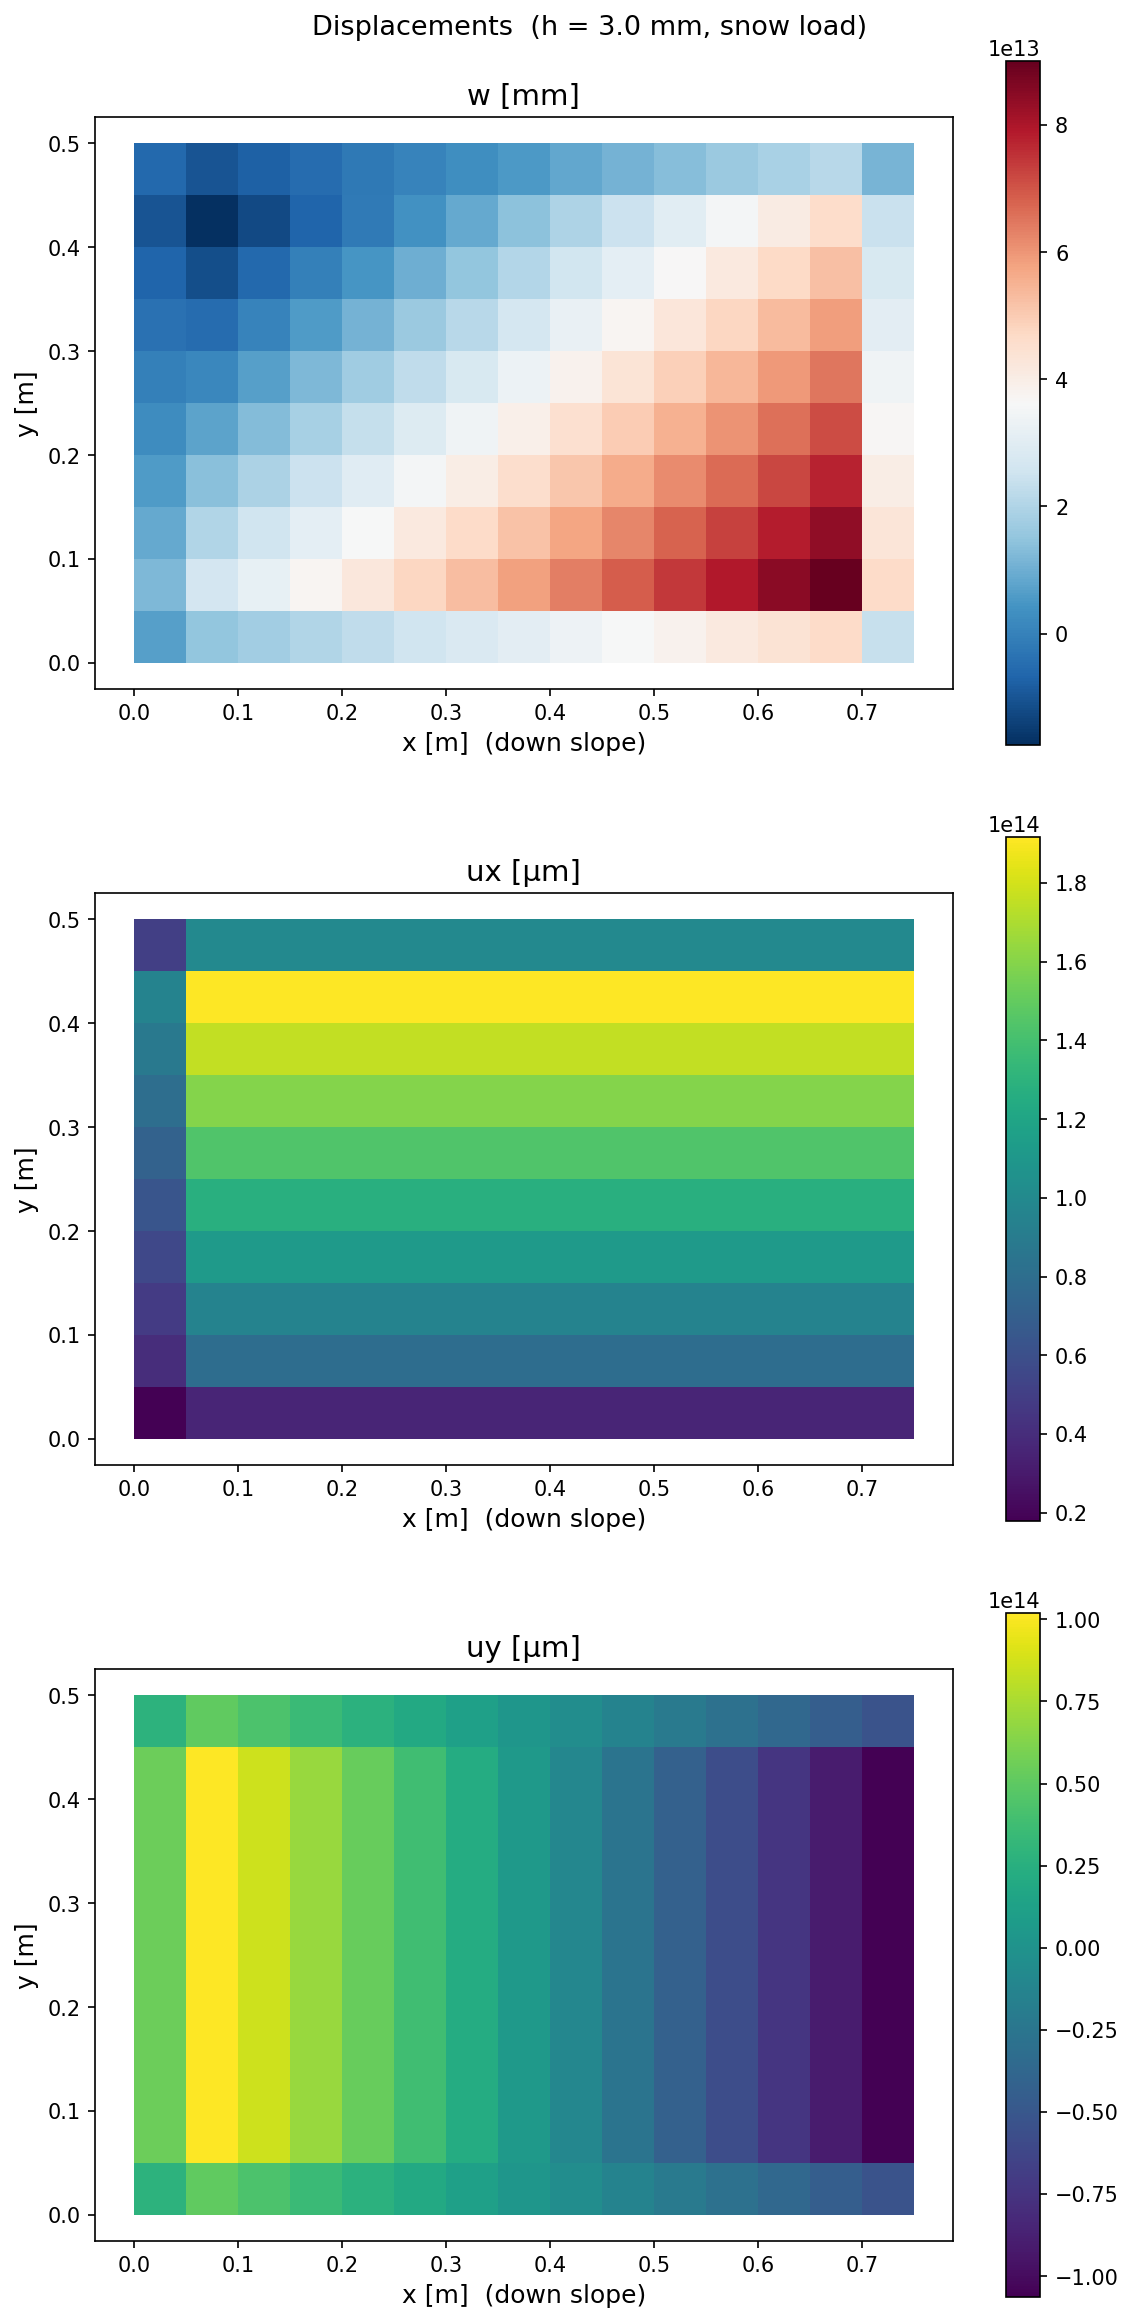
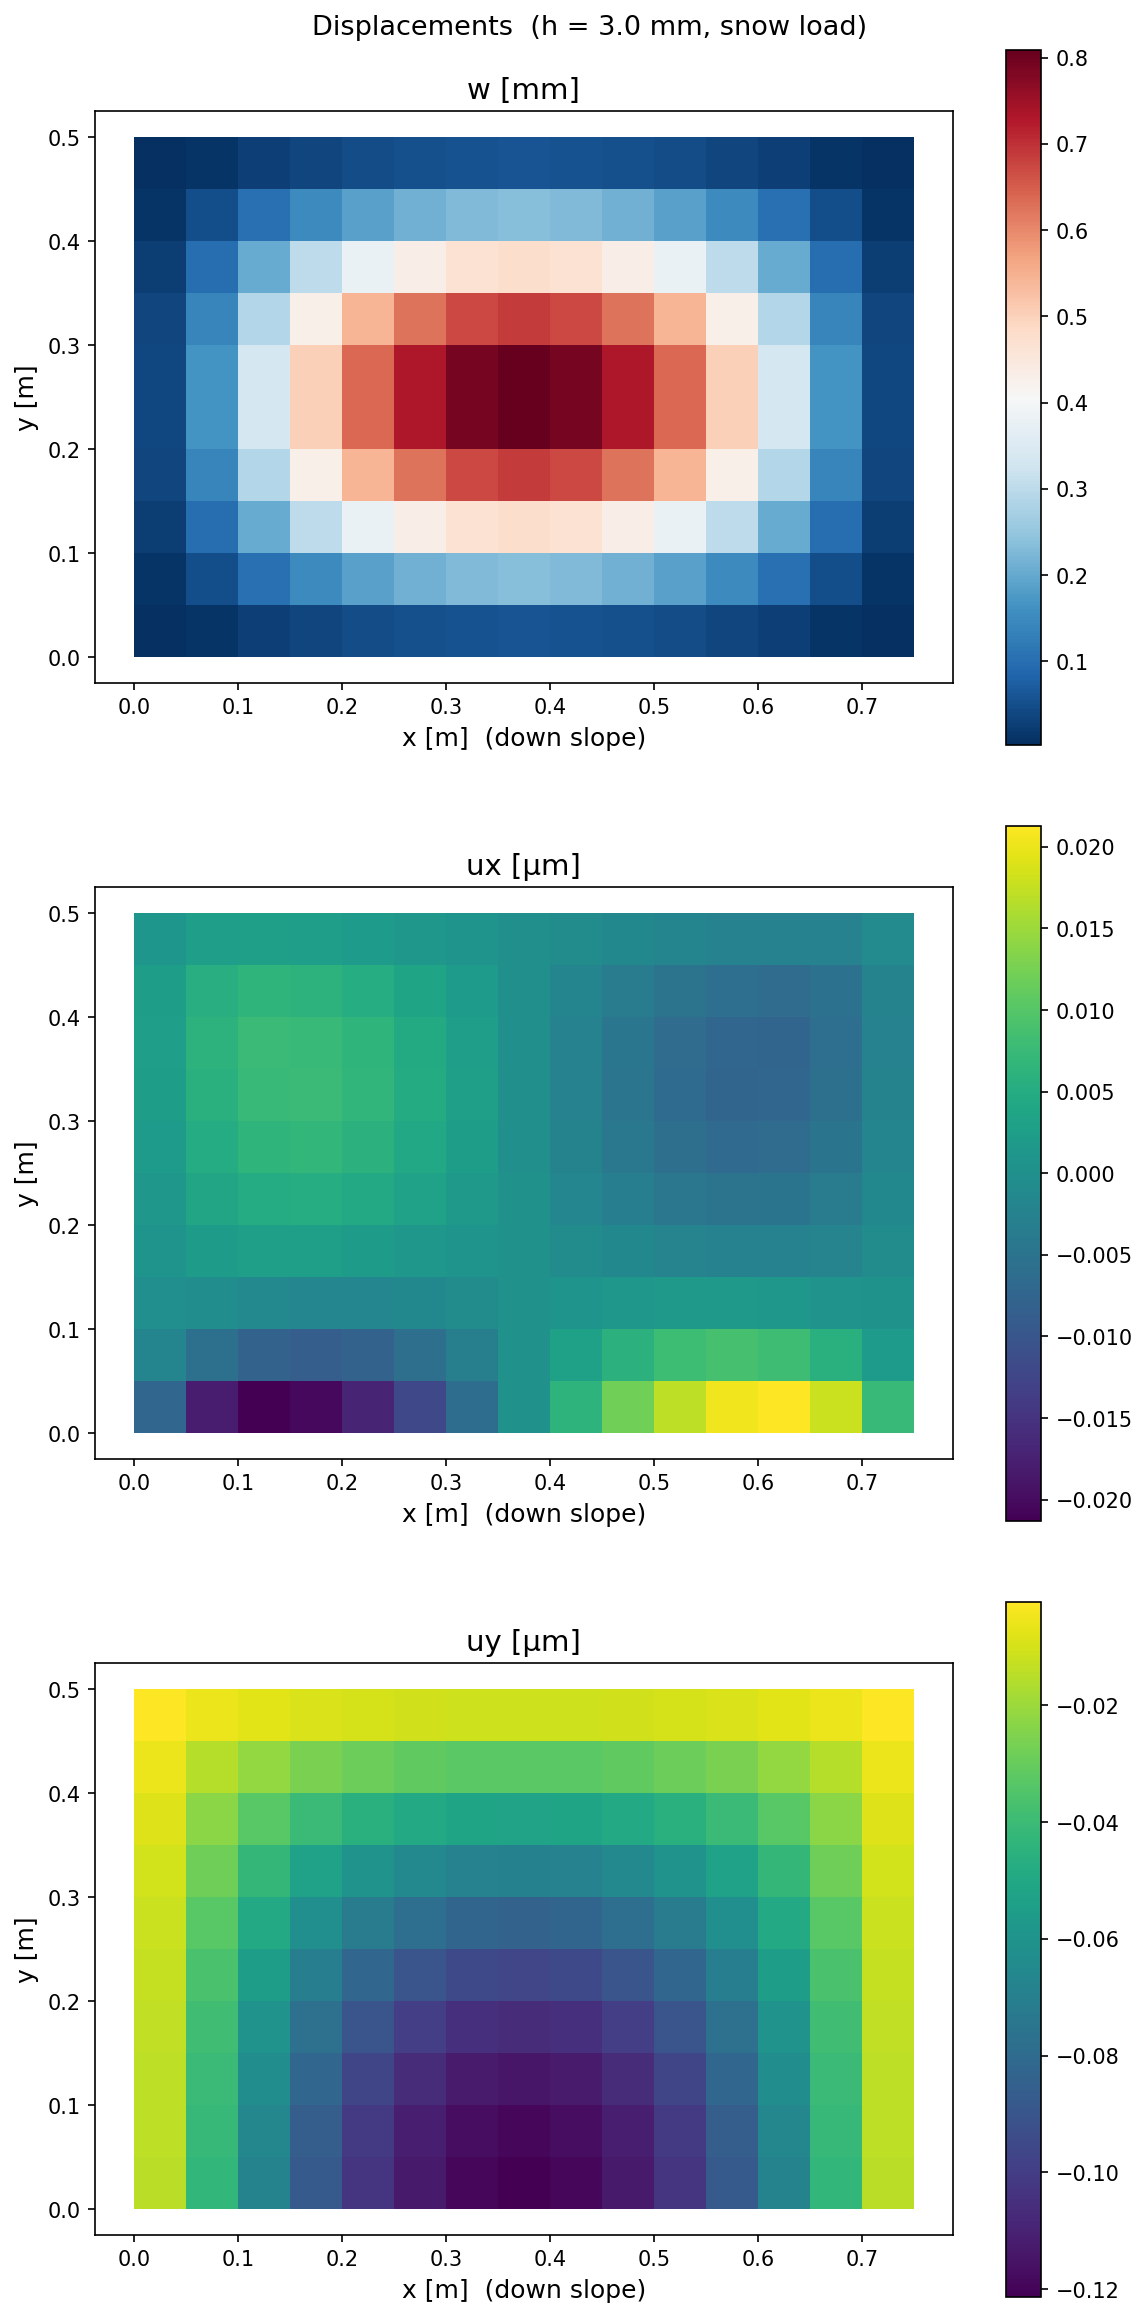
.

diff --git a/TME245/CA2/CA2_TME245.py b/TME245/CA2/CA2_TME245.py
@@ -305,7 +305,10 @@ def kirchoff_plate_element(ex, ey, h, Dbar, body_val):
         # =============================================================================
         B_u, detJ = Bu_and_detJ(xi_vec, xe_nodes)
         N_u = Nu_inplane(xi_vec)
-        f_body = np.array([[fx_bar], [0.0]])
+        
+        # f_body = np.array([[fx_bar], [0.0]])
+        fy_bar = q0 * np.cos(angle_roof) * np.sin(angle_roof)   # downslope (negative y if y up slope)
+        f_body = np.array([[0.0], [-fy_bar]])
 
         K_uu += B_u.T @ (h * D) @ B_u * detJ * Hgp
         f_u  += N_u.T @ f_body * detJ * Hgp
@@ -412,6 +415,7 @@ a = np.zeros(ndofs)  # 1D array
 D = hooke_plane_stress(Emod_al, nu_al)
 Dbar = (h_plate**3 / 12) * D
 
+"""
 # =============================================================================
 # Boundary conditions
 # =============================================================================
@@ -458,9 +462,43 @@ a_C = np.zeros(len(prescribed))  # 1D array
 print(f"\nBoundary conditions:")
 print(f"  Prescribed DOFs : {len(dof_C )}")
 print(f"  Free DOFs       : {len(dof_F)}")
-
+"""
 # body = np.ones((nel, 1)) * q
 body = q_bar
+
+# =============================================================================
+# Boundary conditions - FIXED
+# =============================================================================
+tol = 1e-10
+x_all = Coord[:, 0]
+y_all = Coord[:, 1]
+
+gliding_nodes = np.where(np.abs(y_all - ymin) < tol)[0]   # y=0 = lower edge
+clamped_nodes = np.where(
+    (np.abs(x_all - xmin) < tol) |
+    (np.abs(x_all - xmax) < tol) |
+    (np.abs(y_all - ymax) < tol)
+)[0]
+
+prescribed = set()
+
+# Clamped: all 5 DOFs
+for n in clamped_nodes:
+    for d in range(5):
+        prescribed.add(5 * n + d)
+
+# Gliding: only w, θy, θx (ux, uy free)
+for n in gliding_nodes:
+    prescribed.add(5 * n + 2)  # w
+    prescribed.add(5 * n + 3)  # θy
+    prescribed.add(5 * n + 4)  # θx
+
+dof_C = np.array(sorted(prescribed), dtype=int)
+dof_F = np.setdiff1d(np.arange(ndofs), dof_C)
+a_C = np.zeros(len(dof_C))
+
+print(f"Clamped nodes: {len(clamped_nodes)} | Gliding nodes: {len(gliding_nodes)}")
+print(f"Prescribed DOFs: {len(dof_C)} | Free DOFs: {len(dof_F)}")
 
 # =============================================================================
 # Setup and solve FE equations
